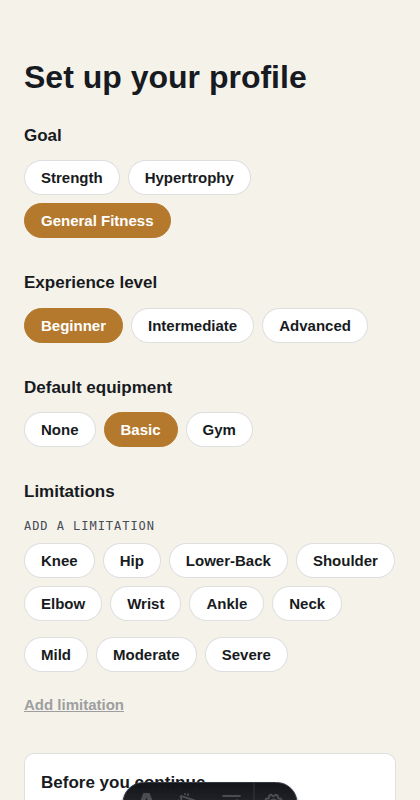
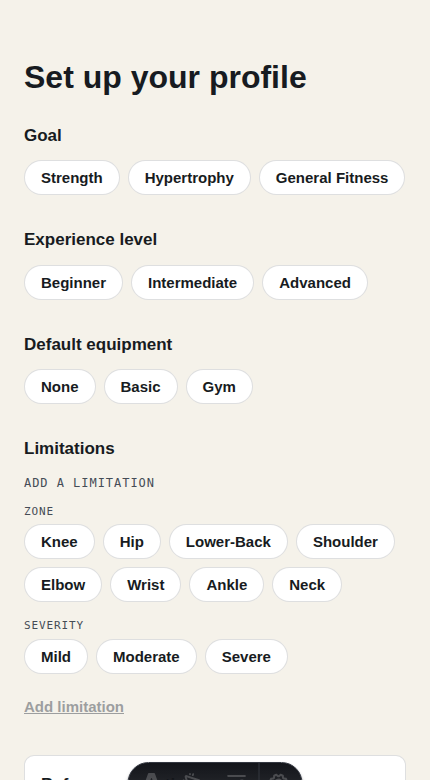
Docs/readme stack features (#87)
* Add stack, features, and slides link to README

* Recapture README screenshots and drop unshipped roadmap feature from list

diff --git a/README.md b/README.md
@@ -36,6 +36,28 @@ about this in the app itself:
   silently degrading further.
 - Data may be reset at any time.
 
+**[Slides](https://docs.google.com/presentation/d/1vXPNsd_l5nKhksr1VHgKsP24aDur56cJ/edit?usp=sharing&ouid=116249605441361681965&rtpof=true&sd=true)**
+
+## Stack
+
+- [Astro](https://astro.build) (SSR) + [Svelte 5](https://svelte.dev) islands for the interactive UI
+- [Supabase](https://supabase.com) (Postgres, Auth, RLS, PostgREST) for storage and auth
+- Groq → OpenRouter → deterministic fallback chain for AI-generated workouts, gated by domain rules
+- [Zod](https://zod.dev) for validation, scoped component CSS (no CSS framework)
+- [Vitest](https://vitest.dev) (unit/RLS) + [Playwright](https://playwright.dev) (E2E), `dependency-cruiser` + `eslint-plugin-boundaries` for architecture enforcement
+- Deployed on [Vercel](https://vercel.com), errors tracked with [Sentry](https://sentry.io)
+
+## Features
+
+- **Daily readiness check-in** — energy, pain, and available time shape each
+  day's workout before generation ever runs.
+- **AI-generated, domain-constrained workouts** — an LLM proposes the plan,
+  but a pain/readiness policy it cannot override decides what's safe to
+  prescribe.
+- **Gym logger** — logs sets/reps/RPE against the day's prescribed workout.
+- **Progress tracking** — adherence and training history over time, backed
+  by real logged sessions.
+
 ## Screenshots
 
 | Onboarding | Check-in | Gym logger | Progress |
